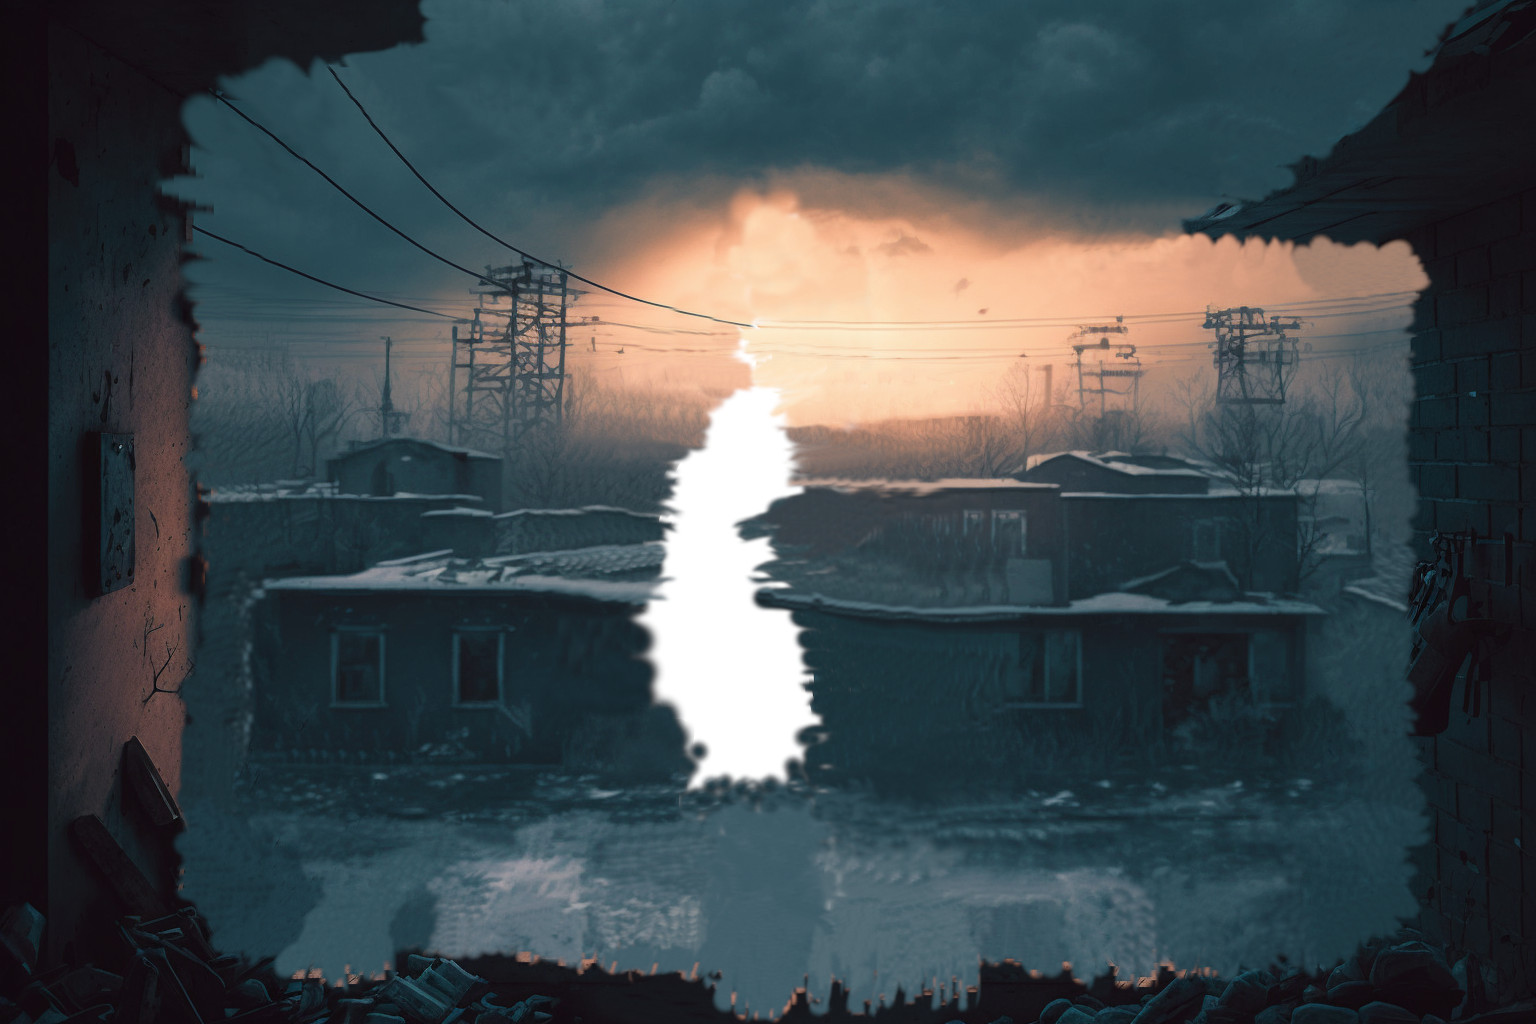
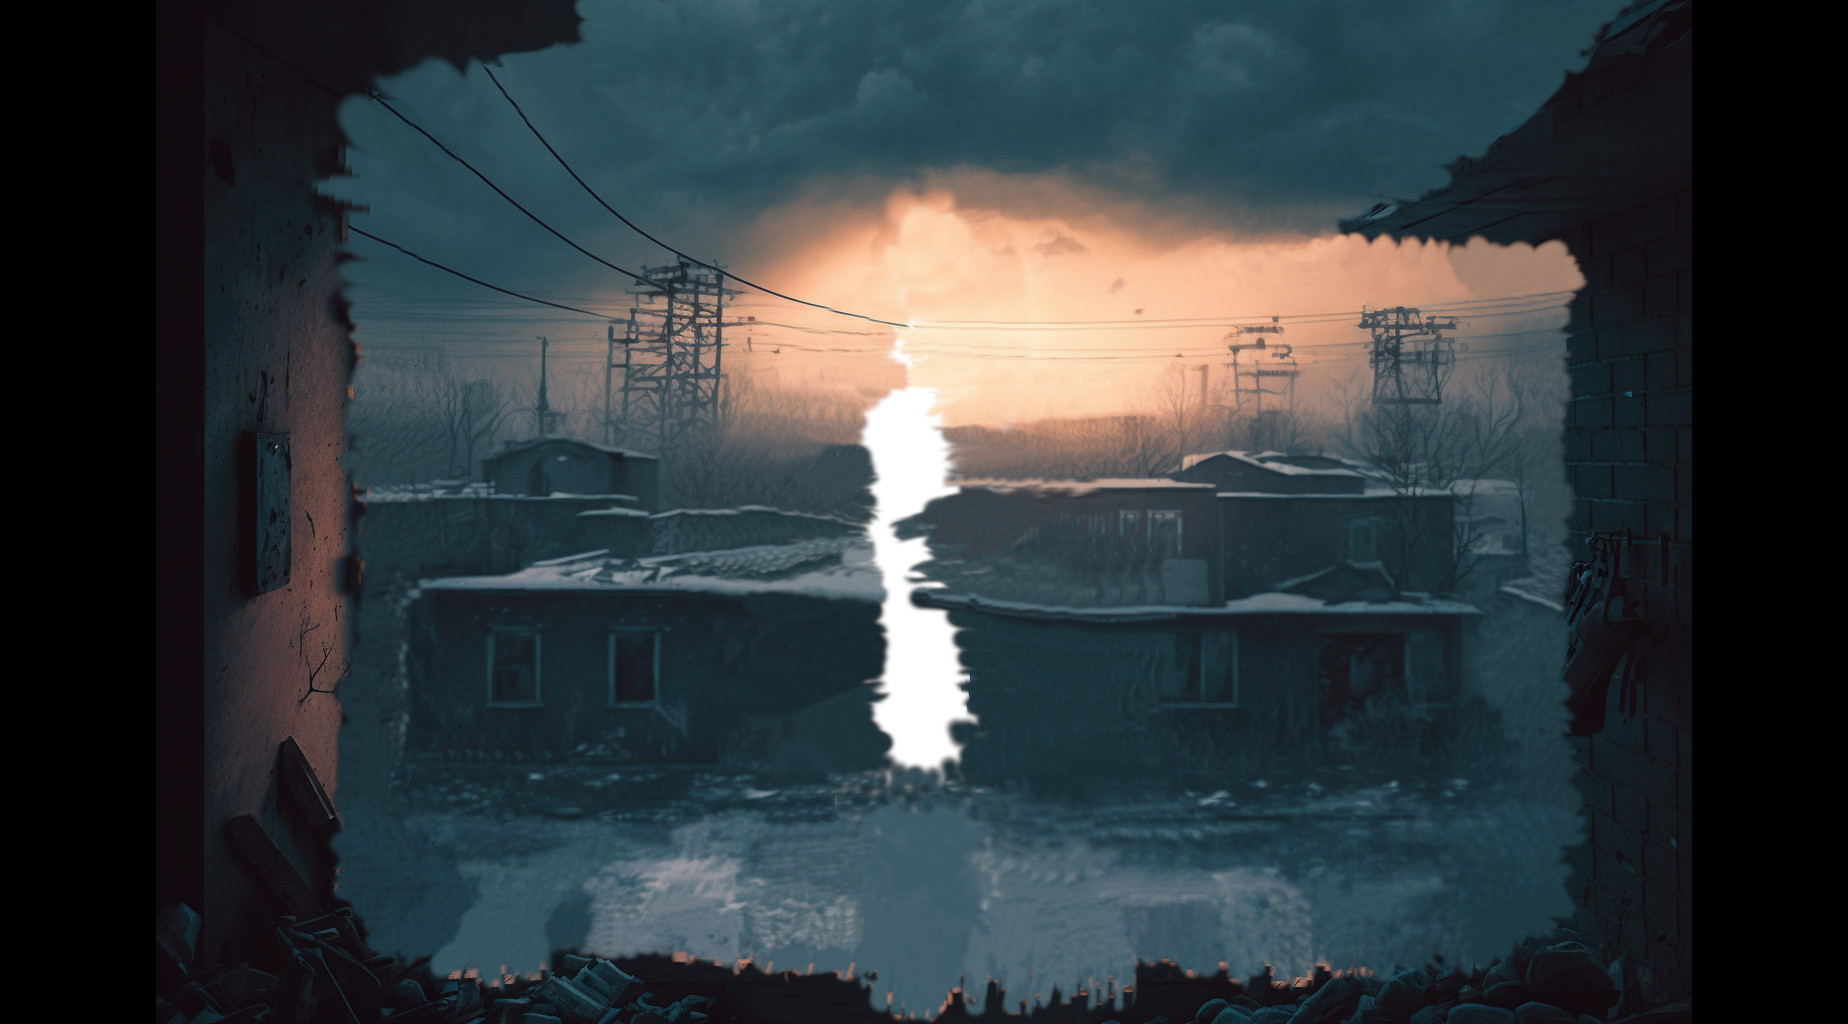
add parallax

diff --git a/index.html b/index.html
@@ -19,17 +19,38 @@
         <div class="swiper-slide slider-item">
           <div
             class="slider__layer"
+            data-swiper-parallax="120"
             style="background-image: url(img/screen-1/layer-back.jpeg)"
           ></div>
           <div
             class="slider__layer"
+            data-swiper-parallax="60"
             style="background-image: url(img/screen-1/layer-middle.png)"
           ></div>
           <div
             class="slider__layer"
+            data-swiper-parallax="10"
             style="background-image: url(img/screen-1/layer-front.png)"
           ></div>
         </div>
+
+        <div class="swiper-slide slider-item">
+            <div
+              class="slider__layer"
+              data-swiper-parallax="100"
+              style="background-image: url(img/screen-1/layer-back.jpeg)"
+            ></div>
+            <div
+              class="slider__layer"
+              data-swiper-parallax="50"
+              style="background-image: url(img/screen-1/layer-middle.png)"
+            ></div>
+            <div
+              class="slider__layer"
+              data-swiper-parallax="10"
+              style="background-image: url(img/screen-1/layer-front.png)"
+            ></div>
+
       </div>
     </div>
   </body>

diff --git a/css/main.css b/css/main.css
@@ -6,16 +6,18 @@
 
 html,
 body {
-  height: 100%;
+  height: 99%;
   background-color: #000;
 }
 
 .slider {
-  height: 100%;
+  height: 99%;
 }
 
 .slider__layer {
   position: absolute;
   inset: 0;
   background-size: cover;
+  background-position: center;
+  will-change: transform;
 }

diff --git a/js/app.js b/js/app.js
@@ -1,0 +1,6 @@
+new Swiper(".slider", {
+  speed: 2400,
+  mousewheel: true,
+  spaceBetween: 8,
+  parallax: true,
+});
